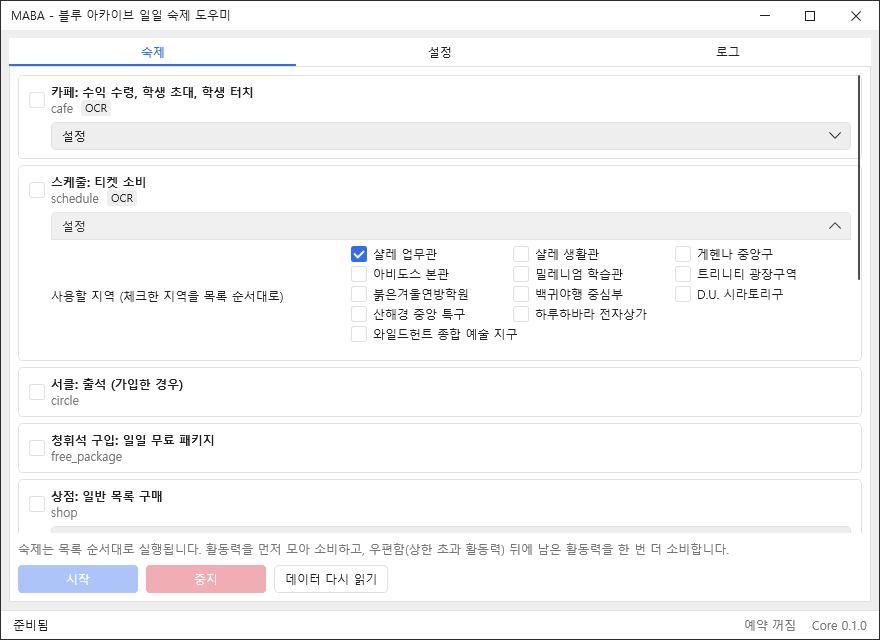
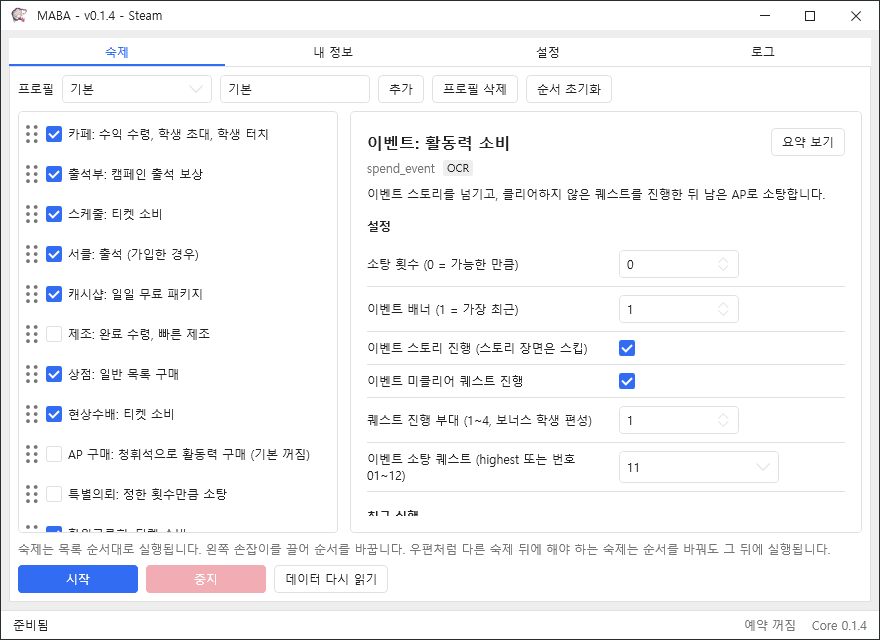
docs: README 로고, 스크린샷, 사용 안내 최신화
- 제목 위에 로고 추가, 권리 고지에 로고 캐릭터의 원작 권리 명시
- GUI 스크린샷을 지금 화면(숙제 목록과 상세 설정)으로 교체
- 설정 저장 위치와 새 버전 설치 방법, 숙제 탭 사용법, 문서 표의 도구 설명 갱신

diff --git a/README.md b/README.md
@@ -2,6 +2,8 @@
 
 <div align="center">
 
+<img alt="MABA" src="docs/images/logo.png" width="200" height="200" />
+
 # MABA
 
 ### Maba Assistant Blue Archive
@@ -148,7 +150,7 @@ MabaAssistantBlueArchive/
 >
 > 릴리스 패키지에는 .NET 런타임, Python 런타임, OCR 모델, 화면 인식 템플릿이 모두 포함되어 있어 따로 설치할 것이 없습니다.
 >
-> 설정은 `%APPDATA%\MabaAssistantBlueArchive` 폴더에 저장됩니다.
+> 설정(숙제 선택, 숙제 설정, 순서, 프로필)과 계정 기록은 `%APPDATA%\MabaAssistantBlueArchive` 폴더에 저장됩니다. 새 버전은 새 폴더에 압축을 풀면 되며, 설정은 그대로 이어집니다.
 
 ### Before Running
 
@@ -156,6 +158,8 @@ MabaAssistantBlueArchive/
 - MABA 실행 중에는 마우스를 직접 조작하지 않는 것을 권장합니다. 다른 창이 게임을 가리면 클릭하지 않고 멈춥니다.
 - 게임과 MABA를 동일한 권한 수준으로 실행합니다. 게임만 관리자 권한으로 실행하면 Windows가 입력을 막습니다.
 - 퀘스트에 사용할 부대 1~4번을 미리 편성합니다.
+- 숙제 탭에서 실행할 숙제를 체크합니다. 숙제를 누르면 오른쪽에 설명과 설정이 나오고, 손잡이를 끌어 순서를 바꿀 수 있습니다.
+- 게임을 메인 화면에 둔 채 시작하는 것을 권장합니다.
 - 게임을 자동으로 켜려면 설정의 **실행 준비**를 사용합니다. Steam판은 Steam으로 게임을 켜고, 에뮬레이터는 실행 파일과 인자를 입력합니다. 예약 실행도 이 설정을 따릅니다.
 - 초대할 학생의 이름은 게임에 표시되는 이름과 동일하게 입력합니다. 예: `아루, 히나(수영복)`
 
@@ -261,7 +265,7 @@ MABA는 안정적인 화면 인식, OCR 처리, JSON 데이터 관리 및 사용
 | [Task Format](docs/PAGE_FORMAT.md) | 페이지, 팝업 및 작업 JSON 형식 |
 | [Roadmap](docs/ROADMAP.md) | 개발 로드맵 |
 | [Decisions](docs/DECISIONS.md) | 기술적 설계 결정 |
-| [Tools](tools/README.md) | 템플릿 캡처 및 점검 도구 |
+| [Tools](tools/README.md) | 템플릿 캡처, 점검, 실제 게임 확인 도구 |
 | [OCR](ocr/README.md) | OCR 사이드카 설정 및 언어 |
 | [Contributing](CONTRIBUTING.md) | 개발 및 기여 가이드 |
 | [Third-party Notices](THIRD_PARTY_NOTICES.md) | 오픈소스 라이선스 및 저작권 고지 |
@@ -281,7 +285,7 @@ MABA는 오픈소스 프로젝트입니다.
 블루 아카이브 및 관련 리소스의 권리는 NEXON Korea Corp. 및 NEXON GAMES Co., Ltd.에 있으며, 이 프로젝트의 라이선스에 포함되지 않습니다.
 
 - MABA는 비공식 개인 팬 프로젝트입니다.
-- MABA의 이름과 로고 및 아이콘의 창작 부분에 대한 권리는 개발자인 ChoHye0N에 있으며, 이 프로젝트의 라이선스에 포함되지 않습니다.
+- MABA의 이름과 로고 및 아이콘의 창작 부분에 대한 권리는 개발자인 ChoHye0N에 있으며, 이 프로젝트의 라이선스에 포함되지 않습니다. 로고에 그려진 캐릭터(치도리 미치루)의 원작 권리는 NEXON Korea Corp. 및 NEXON GAMES Co., Ltd.에 있습니다.
 - 서드파티 라이브러리와 그 리소스는 각각의 라이선스를 따릅니다.
 - MABA는 화면 인식과 일반 입력만 사용하며, 게임 메모리, 파일, 네트워크 통신을 읽거나 변경하지 않습니다.
 - 자동화 프로그램 사용은 게임 이용약관에 위반될 수 있으며, 계정 제재를 포함한 모든 결과의 책임은 사용자에게 있습니다.

diff --git a/README.en.md b/README.en.md
@@ -2,6 +2,8 @@
 
 <div align="center">
 
+<img alt="MABA" src="docs/images/logo.png" width="200" height="200" />
+
 # MABA
 
 ### Maba Assistant Blue Archive
@@ -148,7 +150,7 @@ Run `MabaAssistantBlueArchive.exe`.
 >
 > The release package includes the .NET runtime, the Python runtime, the OCR models and the screen-recognition templates, so nothing else needs to be installed.
 >
-> Settings are stored in `%APPDATA%\MabaAssistantBlueArchive`.
+> Settings (selected tasks, task settings, order, profiles) and account records are stored in `%APPDATA%\MabaAssistantBlueArchive`. Unpack a new version into a new folder; the settings carry over.
 
 ### Before Running
 
@@ -156,6 +158,8 @@ Run `MabaAssistantBlueArchive.exe`.
 - Leave the mouse alone while MABA is running. If another window covers the game, MABA stops instead of clicking.
 - Run the game and MABA with the same privilege level. If only the game runs as administrator, Windows blocks the input.
 - Set up teams 1-4 for quests in advance.
+- Check the tasks to run on the Tasks tab. Clicking a task shows its description and settings on the right; drag the grip to change the order.
+- Starting with the game on its main screen is recommended.
 - To start the game automatically, use **Launch** in the settings. The Steam version is started through Steam; for an emulator, enter its executable and arguments. Scheduled runs use them too.
 - Enter the names of students to invite exactly as the game shows them. Example (Korean client): `아루, 히나(수영복)`
 
@@ -261,7 +265,7 @@ The copyright and license of each library follow that project's terms.
 | [Task Format](docs/PAGE_FORMAT.md) | Page, popup and task JSON format |
 | [Roadmap](docs/ROADMAP.md) | Development roadmap |
 | [Decisions](docs/DECISIONS.md) | Technical design decisions |
-| [Tools](tools/README.md) | Template capture and check tools |
+| [Tools](tools/README.md) | Template capture, checks and live checks in the game |
 | [OCR](ocr/README.md) | OCR sidecar setup and languages |
 | [Contributing](CONTRIBUTING.md) | Development and contribution guide |
 | [Third-party Notices](THIRD_PARTY_NOTICES.md) | Open-source licenses and copyright notices |
@@ -281,7 +285,7 @@ This project is licensed under the **AGPL-3.0-only** license.
 Blue Archive and its related assets are the property of NEXON Korea Corp. and NEXON GAMES Co., Ltd. and are not covered by this project's license.
 
 - MABA is an independent, unofficial fan-made project.
-- The MABA name and the original artwork of its logo and icons are © 2026 ChoHye0N, the developer, and are not covered by this project's license.
+- The MABA name and the original artwork of its logo and icons are © 2026 ChoHye0N, the developer, and are not covered by this project's license. The character drawn in the logo (Chidori Michiru) belongs to NEXON Korea Corp. and NEXON GAMES Co., Ltd.
 - Third-party libraries and their assets are subject to their respective licenses.
 - MABA uses image recognition and ordinary input only; it never reads or modifies game memory, files or network traffic.
 - Using automation software may violate the game's Terms of Service. Users are solely responsible for any consequences, including account restrictions.
